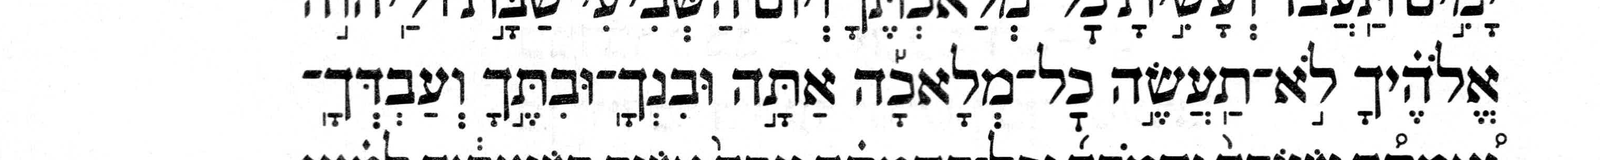
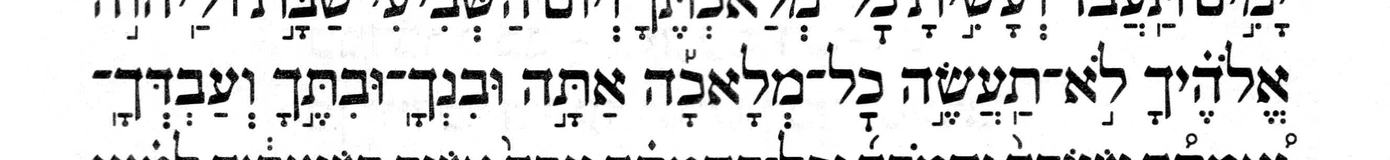
Banish the two scans to an appendix, and even up their margins
Two changes to the same figures, in one commit because they touch the same
constants and the same regenerated page.

AN APPENDIX (Ben, 2026-07-31: "let's banish these two new images to an
appendix"). The figures sat directly under the intro's printed-case table. The
table is the intro's answer and the scans are its evidence, and evidence set
apart from the argument it supports is what an appendix is for.

Its slot is forced rather than chosen: "Spreader-pair prevalence" and "Appendix:
non-spreader-pair prevalence" are a named pair and must stay adjacent, and the
poetic appendix is last by Ben's own earlier ask, which leaves exactly this
place. Nothing cues it from the intro, matching the two prevalence sections --
a rendered section that previews a later one is the hub sentence Ben has cut
from these pages before, and an appendix heading announces itself.

The section re-derives printed_cases() rather than taking them from _intro.
_p_trad_strand is lru_cached, so the second call re-runs only the span searches,
each of which raises unless it still matches exactly one place; a figure and the
table it backs therefore cannot come to show different forms.

EQUAL MARGINS (Ben, same day: "both of their crops are a little lopsided ...
Koren leaves too much left margin; SimTiq leaves too much right margin"). He was
right, and by a lot: measured against the ink, Koren's strip had 303px of margin
one side and 93px the other, the Tiqqun's 72px and 172px. Both are now even, at
[…]

diff --git a/gh-pages/accgram/maqaf-nonfinal-accents.html b/gh-pages/accgram/maqaf-nonfinal-accents.html
@@ -43,33 +43,6 @@ Ref.</abbr></th><td class="centered">+maqaf</td><td class="centered">+munaḥ</t
 strand</abbr></th><td dir="rtl"><span lang="hbo">לא־תעש֨ה</span></td><td dir="rtl"><span lang="hbo">ל֣א
 יהיה־לך֩</span></td><td dir="rtl"><span lang="hbo">ל֣א תעשה־לך֣</span></td></tr>
 </table>
-<figure><div class="scan-annot">
-<img src="img/Koren-appendix-p-39-Dt-Dec-p-trad-elyon-lo-taase.png" alt="Koren appendix p. 39: the Deuteronomy Decalogue&#x27;s לא־תעשה in the p-trad elyon, with an accent on each atom" class="ink-on-white">
-<svg class="scan-annot-overlay" viewBox="0 0 1600 160" preserveAspectRatio="none" aria-hidden="true">
-<rect x="1099" y="39" width="249" height="96" rx="6">
-</rect>
-</svg>
-</div>
-<figcaption>Koren's Deuteronomy appendix Decalogue (p. 39), in the עליון. The highlighted
-<span lang="hbo">ל֣א־תעש֣ה</span> has an accent on each of its two atoms.</figcaption>
-</figure>
-<figure><div class="scan-annot">
-<img src="img/Simanim-Tiqqun-p-246-Ex-Dec-p-trad-taxton-spreaders.png" alt="Simanim Tiqqun p. 246: the Exodus appendix Decalogue&#x27;s לא־יהיה and לא־תעשה in the p-trad taḥton, each with an accent on both atoms" class="ink-on-white">
-<svg class="scan-annot-overlay" viewBox="0 0 1600 293" preserveAspectRatio="none" aria-hidden="true">
-<rect x="926" y="66" width="290" height="96" rx="6">
-</rect>
-<rect x="52" y="63" width="148" height="100" rx="6">
-</rect>
-<rect x="1230" y="166" width="226" height="102" rx="6">
-</rect>
-</svg>
-</div>
-<figcaption>The Simanim Tiqqun's Exodus appendix Decalogue (p. 246), in the תחתון:
-<span lang="hbo">ל֣א־יהי֥ה לך֛</span> and <span lang="hbo">ל֣א־תעש֨ה לך֥</span>. Each highlight
-covers the maqaf compound alone, and each compound has an accent on both of its atoms. The printed
-line break falls inside לא־תעשה — its לא ends one line and its תעשה opens the next — so that one
-chanted word is highlighted in two pieces.</figcaption>
-</figure>
 <p>(Every strand named on this page is a p-trad one.) (Both Koren and the Tiqqun have strange
 spreaders on לא־תעשה, so there are only two distinct compounds among these three cases: לא־תעשה and
 לא־יהיה.)</p>
@@ -149,6 +122,35 @@ chanted word to MAM's notes on it.</p>
 <tr><td>gershayim</td><td><abbr title="telisha gedolah">TG</abbr></td><td><abbr title="A geresh or gershayim with a telisha gedolah">gerstar-tg</abbr></td><td dir="rtl"><span lang="hbo" title="Zeph. 2:15">ז֞֠את</span></td><td><a href="https://bdenckla.github.io/MAM-with-doc/CI-Tsefaniah.html#c2v15">Mwd</a></td></tr>
 <tr><td>mahapakh</td><td>qadma</td><td><abbr title="A one-of-a-kind case, hard to classify except to say that it is not a gerstar-tg">?</abbr></td><td dir="rtl"><span lang="hbo" title="Ezek. 20:31">נטמא֤֨ים</span></td><td><a href="https://bdenckla.github.io/MAM-with-doc/C3-Ezekiel.html#c20v31">Mwd</a></td></tr>
 </table>
+<h2>
+Appendix: the printed pages</h2>
+<figure><div class="scan-annot">
+<img src="img/Koren-appendix-p-39-Dt-Dec-p-trad-elyon-lo-taase.png" alt="Koren appendix p. 39: the Deuteronomy Decalogue&#x27;s לא־תעשה in the p-trad elyon, with an accent on each atom" class="ink-on-white">
+<svg class="scan-annot-overlay" viewBox="0 0 1390 160" preserveAspectRatio="none" aria-hidden="true">
+<rect x="889" y="39" width="249" height="96" rx="6">
+</rect>
+</svg>
+</div>
+<figcaption>Koren's Deuteronomy appendix Decalogue (p. 39), in the עליון. The highlighted
+<span lang="hbo">ל֣א־תעש֣ה</span> has an accent on each of its two atoms.</figcaption>
+</figure>
+<figure><div class="scan-annot">
+<img src="img/Simanim-Tiqqun-p-246-Ex-Dec-p-trad-taxton-spreaders.png" alt="Simanim Tiqqun p. 246: the Exodus appendix Decalogue&#x27;s לא־יהיה and לא־תעשה in the p-trad taḥton, each with an accent on both atoms" class="ink-on-white">
+<svg class="scan-annot-overlay" viewBox="0 0 1500 293" preserveAspectRatio="none" aria-hidden="true">
+<rect x="926" y="66" width="290" height="96" rx="6">
+</rect>
+<rect x="52" y="63" width="148" height="100" rx="6">
+</rect>
+<rect x="1230" y="166" width="226" height="102" rx="6">
+</rect>
+</svg>
+</div>
+<figcaption>The Simanim Tiqqun's Exodus appendix Decalogue (p. 246), in the תחתון:
+<span lang="hbo">ל֣א־יהי֥ה לך֛</span> and <span lang="hbo">ל֣א־תעש֨ה לך֥</span>. Each highlight
+covers the maqaf compound alone, and each compound has an accent on both of its atoms. The printed
+line break falls inside לא־תעשה — its לא ends one line and its תעשה opens the next — so that one
+chanted word is highlighted in two pieces.</figcaption>
+</figure>
 <h2>
 Appendix: the poetic verses</h2>
 <p>The poetic system is a different matter, and different enough that the same count would not mean

diff --git a/py/accgram/maqaf_nonfinal_accents_page.py b/py/accgram/maqaf_nonfinal_accents_page.py
@@ -1482,7 +1482,6 @@ def _intro(survey: dict) -> tuple[object, ...]:
         # qualification, parenthesized and first, and the two-distinct-compounds sentence,
         # since לא־תעשה appearing in two of the three cases may confuse.
         _printed_case_table(cases),
-        *_case_scans(cases),
         # P-TRAD SAID ONCE, in the parenthetical below, and dropped from the individual
         # mentions -- which UNDOES the per-mention "the p-trad עליון" and "the p-trad תחתון" of
         # earlier the same day.  ``_p_trad_strand`` is where the tradition is fixed for every
@@ -1698,13 +1697,24 @@ _KOREN_P39_IMG = "img/Koren-appendix-p-39-Dt-Dec-p-trad-elyon-lo-taase.png"
 _SIMTIQ_P246_IMG = "img/Simanim-Tiqqun-p-246-Ex-Dec-p-trad-taxton-spreaders.png"
 
 # The viewBox literals must equal each committed PNG's own natural size, since mhi.Box coordinates
-# are in that pixel space; nothing tests the equality, so these are the sizes `scan-page` reported
-# when it wrote the two files (1600x160 and 1600x293), not sizes derived by eye.
-_KOREN_P39_VIEWBOX = (1600, 160)
-_SIMTIQ_P246_VIEWBOX = (1600, 293)
+# are in that pixel space, so these are the sizes `scan-page` reported when it wrote the two
+# files, not sizes derived by eye.  Getting one wrong is silent at build time -- the page still
+# renders and the highlights just land elsewhere -- so `tests/test_scan_overlay_viewboxes.py`
+# lints every rendered figure's viewBox against its scan's real size.  Take the pair from what
+# `scan-page` prints all the same: the lint tells you the numbers disagree, not which one is right.
+#
+# BOTH CROPS WERE RE-CUT to leave equal margins either side of the ink (Ben, 2026-07-31: "both of
+# their crops are a little lopsided").  The first pair left 303px of margin against 93px on
+# Koren's strip and 72px against 172px on the Tiqqun's.  The re-cut trims only the fat side, at a
+# scale chosen to leave pixels-per-source-unit unchanged, so every box below moved by a pure
+# translation -- Koren's by -210 in x, the Tiqqun's by nothing at all -- rather than needing to be
+# picked again.  Each box was then cropped back out of its new PNG and checked to be on the same
+# word.
+_KOREN_P39_VIEWBOX = (1390, 160)
+_SIMTIQ_P246_VIEWBOX = (1500, 293)
 
 # One box, on the לא־תעשה compound of the middle printed line.
-_KOREN_P39_BOXES: tuple[mhi.Box, ...] = (mhi.Box(x=1099, y=39, w=249, h=96),)
+_KOREN_P39_BOXES: tuple[mhi.Box, ...] = (mhi.Box(x=889, y=39, w=249, h=96),)
 
 # THREE boxes for TWO compounds: לא־יהיה whole on the first line, and then the לא־תעשה compound in
 # two pieces, its לא ending the first line and its תעשה opening the second.  Two boxes for one
@@ -1724,19 +1734,35 @@ _SIMTIQ_P246_BOXES: tuple[mhi.Box, ...] = (
 )
 
 
-def _case_scans(cases: tuple[dict, ...]) -> tuple[object, ...]:
-    """The two printed pages themselves, under the table that says what they have.
+def _scans_appendix_section() -> tuple[object, ...]:
+    """The two printed pages themselves, as an appendix at the page's foot.
 
-    Until now every cell above was lifted or constructed from a vendored Wikisource strand, so the
-    table stated the page's claim about each edition without ever showing the edition.  These two
-    figures are the scans those claims are read off.
+    Every cell of the intro's table is lifted or constructed from a vendored Wikisource strand, so
+    the table states the page's claim about each edition without ever showing the edition.  These
+    two figures are the scans those claims are read off.
+
+    AN APPENDIX, not part of the intro (Ben, 2026-07-31: "let's banish these two new images to an
+    appendix").  They sat directly under the printed-case table when they were first rendered.
+    The table is the intro's answer and the scans are its evidence, and evidence set apart from
+    the argument it supports is what an appendix is for.
+
+    NOTHING CUES IT.  The intro does not link down to this section, matching the two prevalence
+    sections, whose comments say why: a rendered section that previews a later one is the hub
+    sentence Ben has cut from these pages before, and an appendix heading announces itself.  The
+    one link that does run down the page, from the prose section to the one-letter appendix, is
+    the exception rather than the pattern.
 
     ``img_class="ink-on-white"`` on both: each is black ink on white paper and wants the
     stylesheet's dark-mode inversion.
     """
-    koren, simtiq_yihye, simtiq_taase = cases
+    # Re-derived rather than handed down from ``_intro``: ``_p_trad_strand`` is lru_cached, so the
+    # second call re-runs only the span searches, and each of those raises unless it still matches
+    # exactly one place.  A figure and the table it backs therefore cannot come to show different
+    # forms.
+    koren, simtiq_yihye, simtiq_taase = printed_cases()
     lo_taase = f"{_LO}{_MAQAF}{_TAASE}"
     return (
+        H.heading_level_2("Appendix: the printed pages"),
         mhi.scan_figure(
             _KOREN_P39_IMG,
             "Koren appendix p. 39: the Deuteronomy Decalogue's לא־תעשה in the p-trad"
@@ -2344,6 +2370,11 @@ def render_body_contents(survey: dict) -> tuple[object, ...]:
         *_prose_section(survey, rows),
         *_appendix_section(survey, rows),
         *_one_letter_appendix_section(survey),
+        # THE SCANS SIT HERE, and the slot is forced rather than chosen.  Two constraints already
+        # bind: "Spreader-pair prevalence" and "Appendix: non-spreader-pair prevalence" are a
+        # named pair and must stay adjacent, and the poetic appendix is last by Ben's own ask.
+        # That leaves exactly this place.
+        *_scans_appendix_section(),
         # THE POETIC SECTION IS LAST, and an appendix (Ben, 2026-07-30: "float 'poetic verses'
         # down to the bottom and call it an Appendix").  It sat between the prose section and
         # the first appendix, where a heading naming a whole other system interrupted the run
